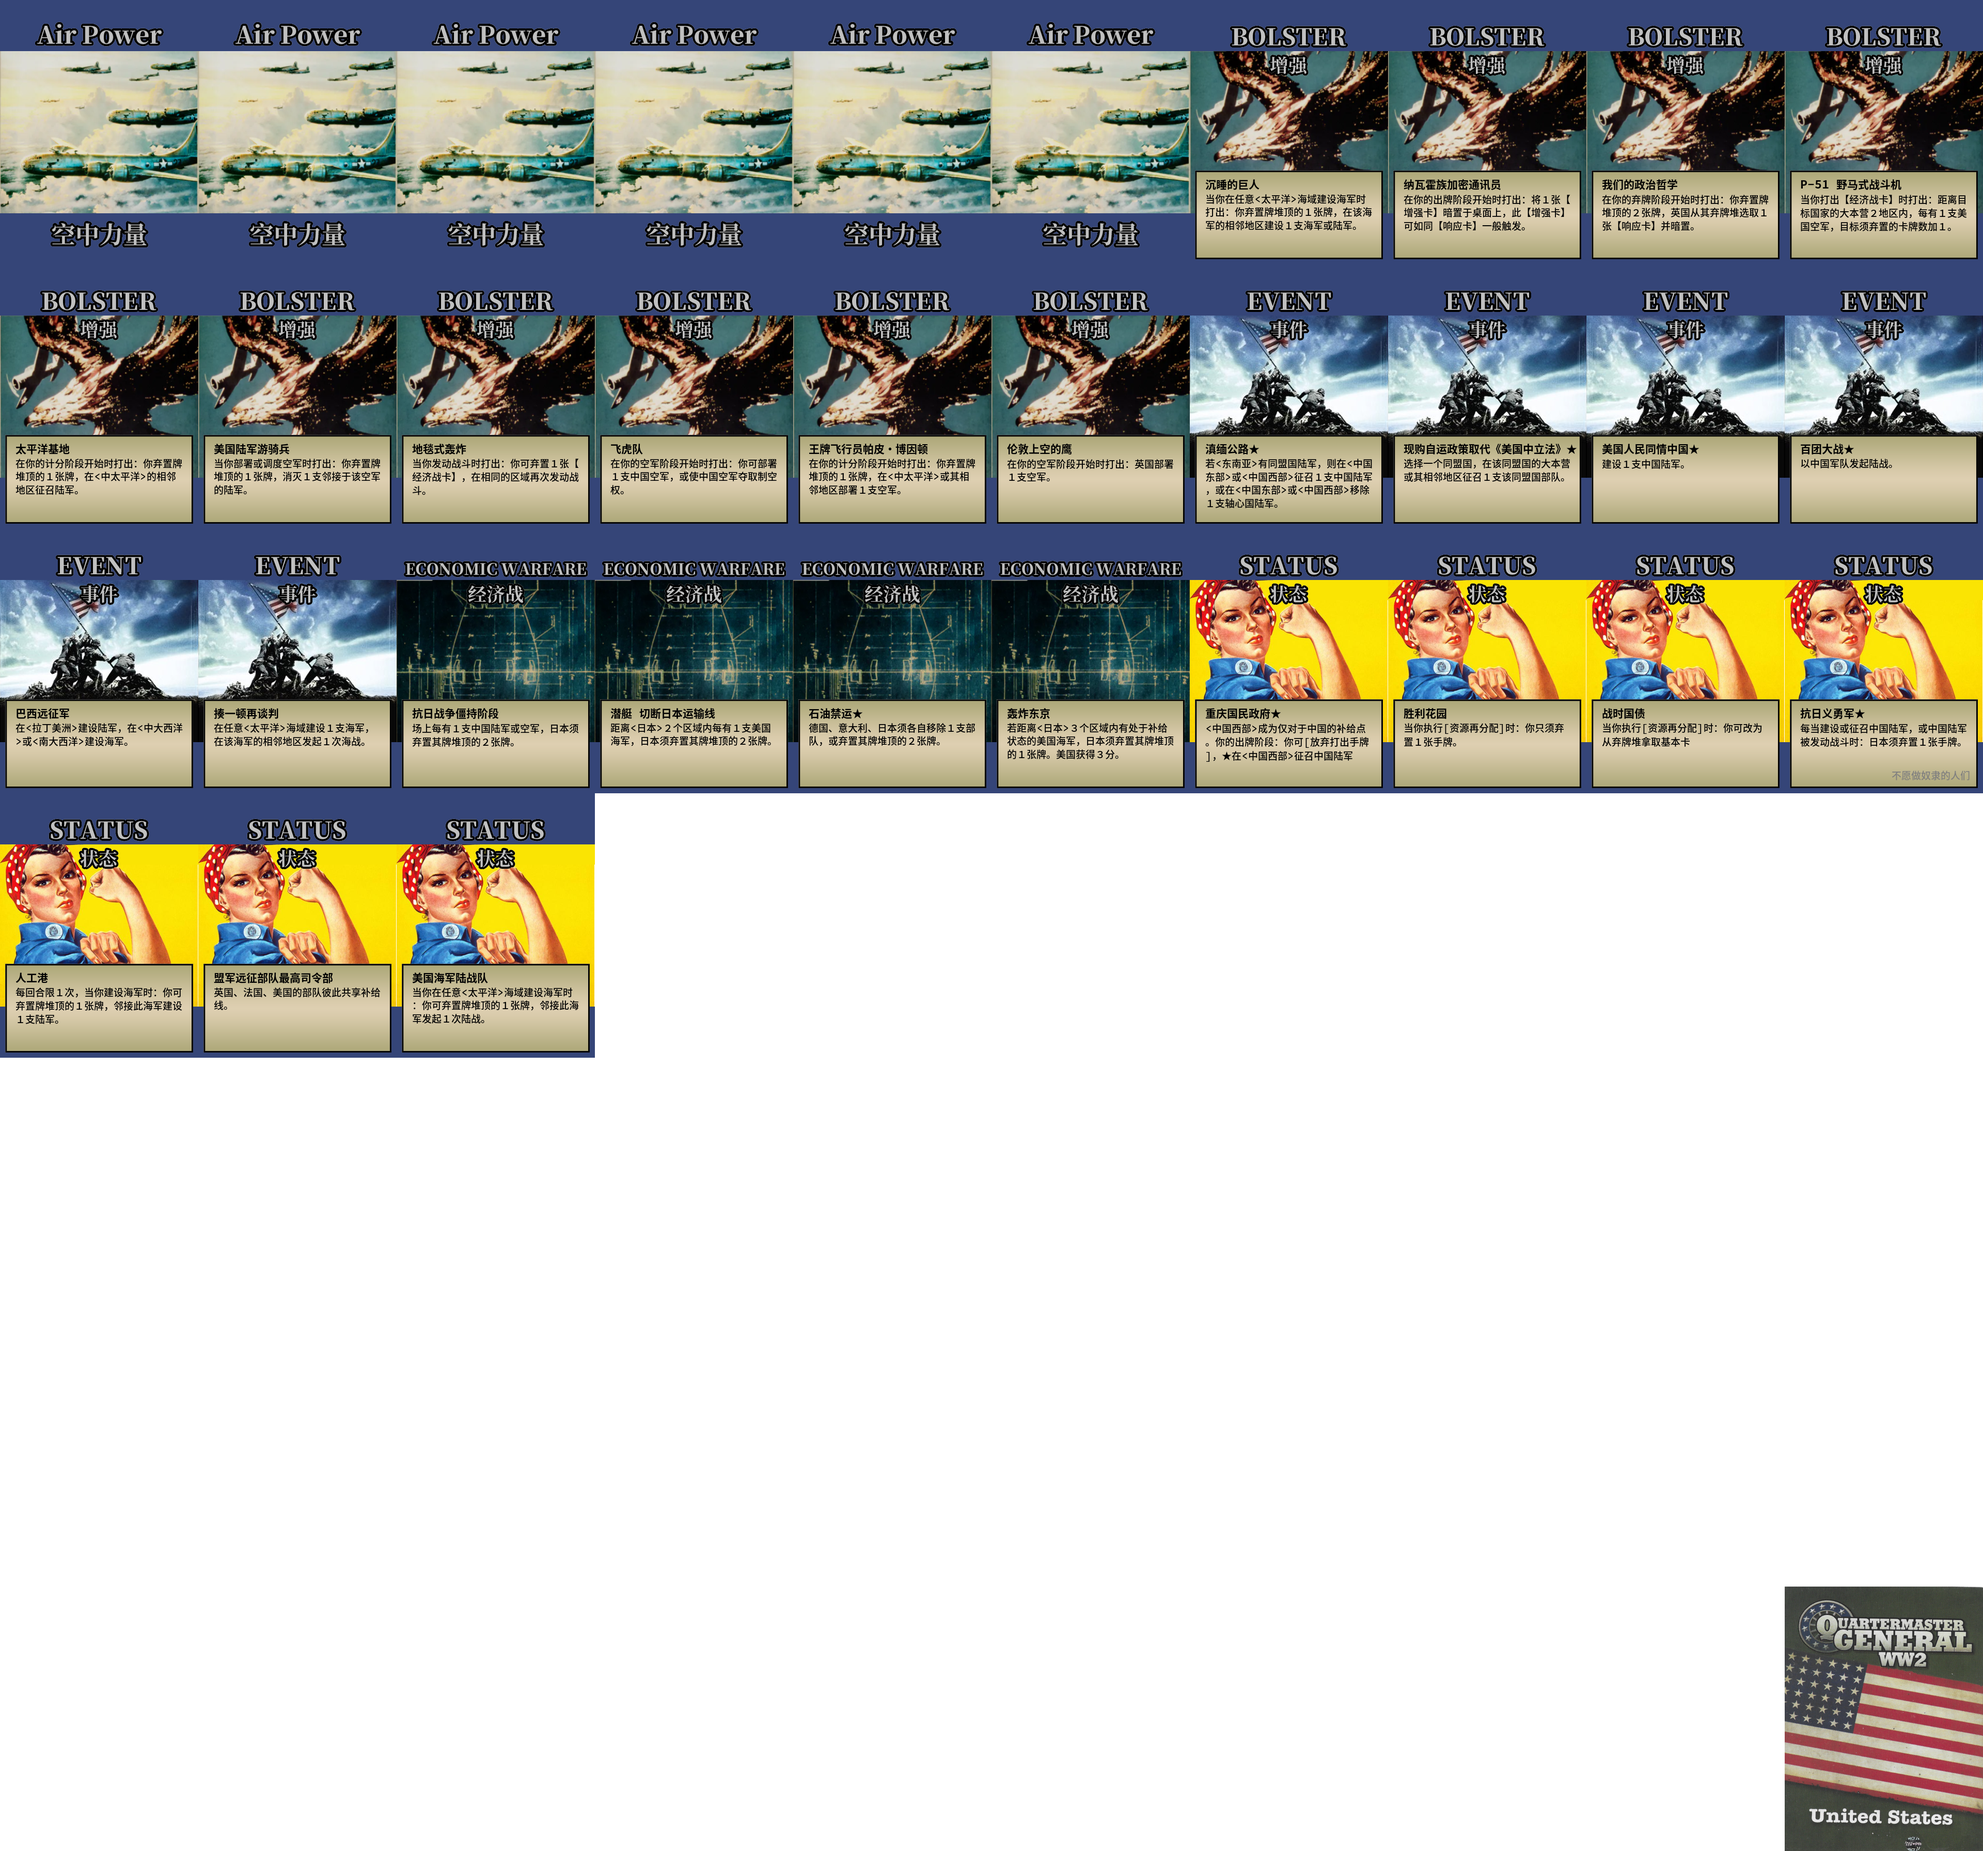
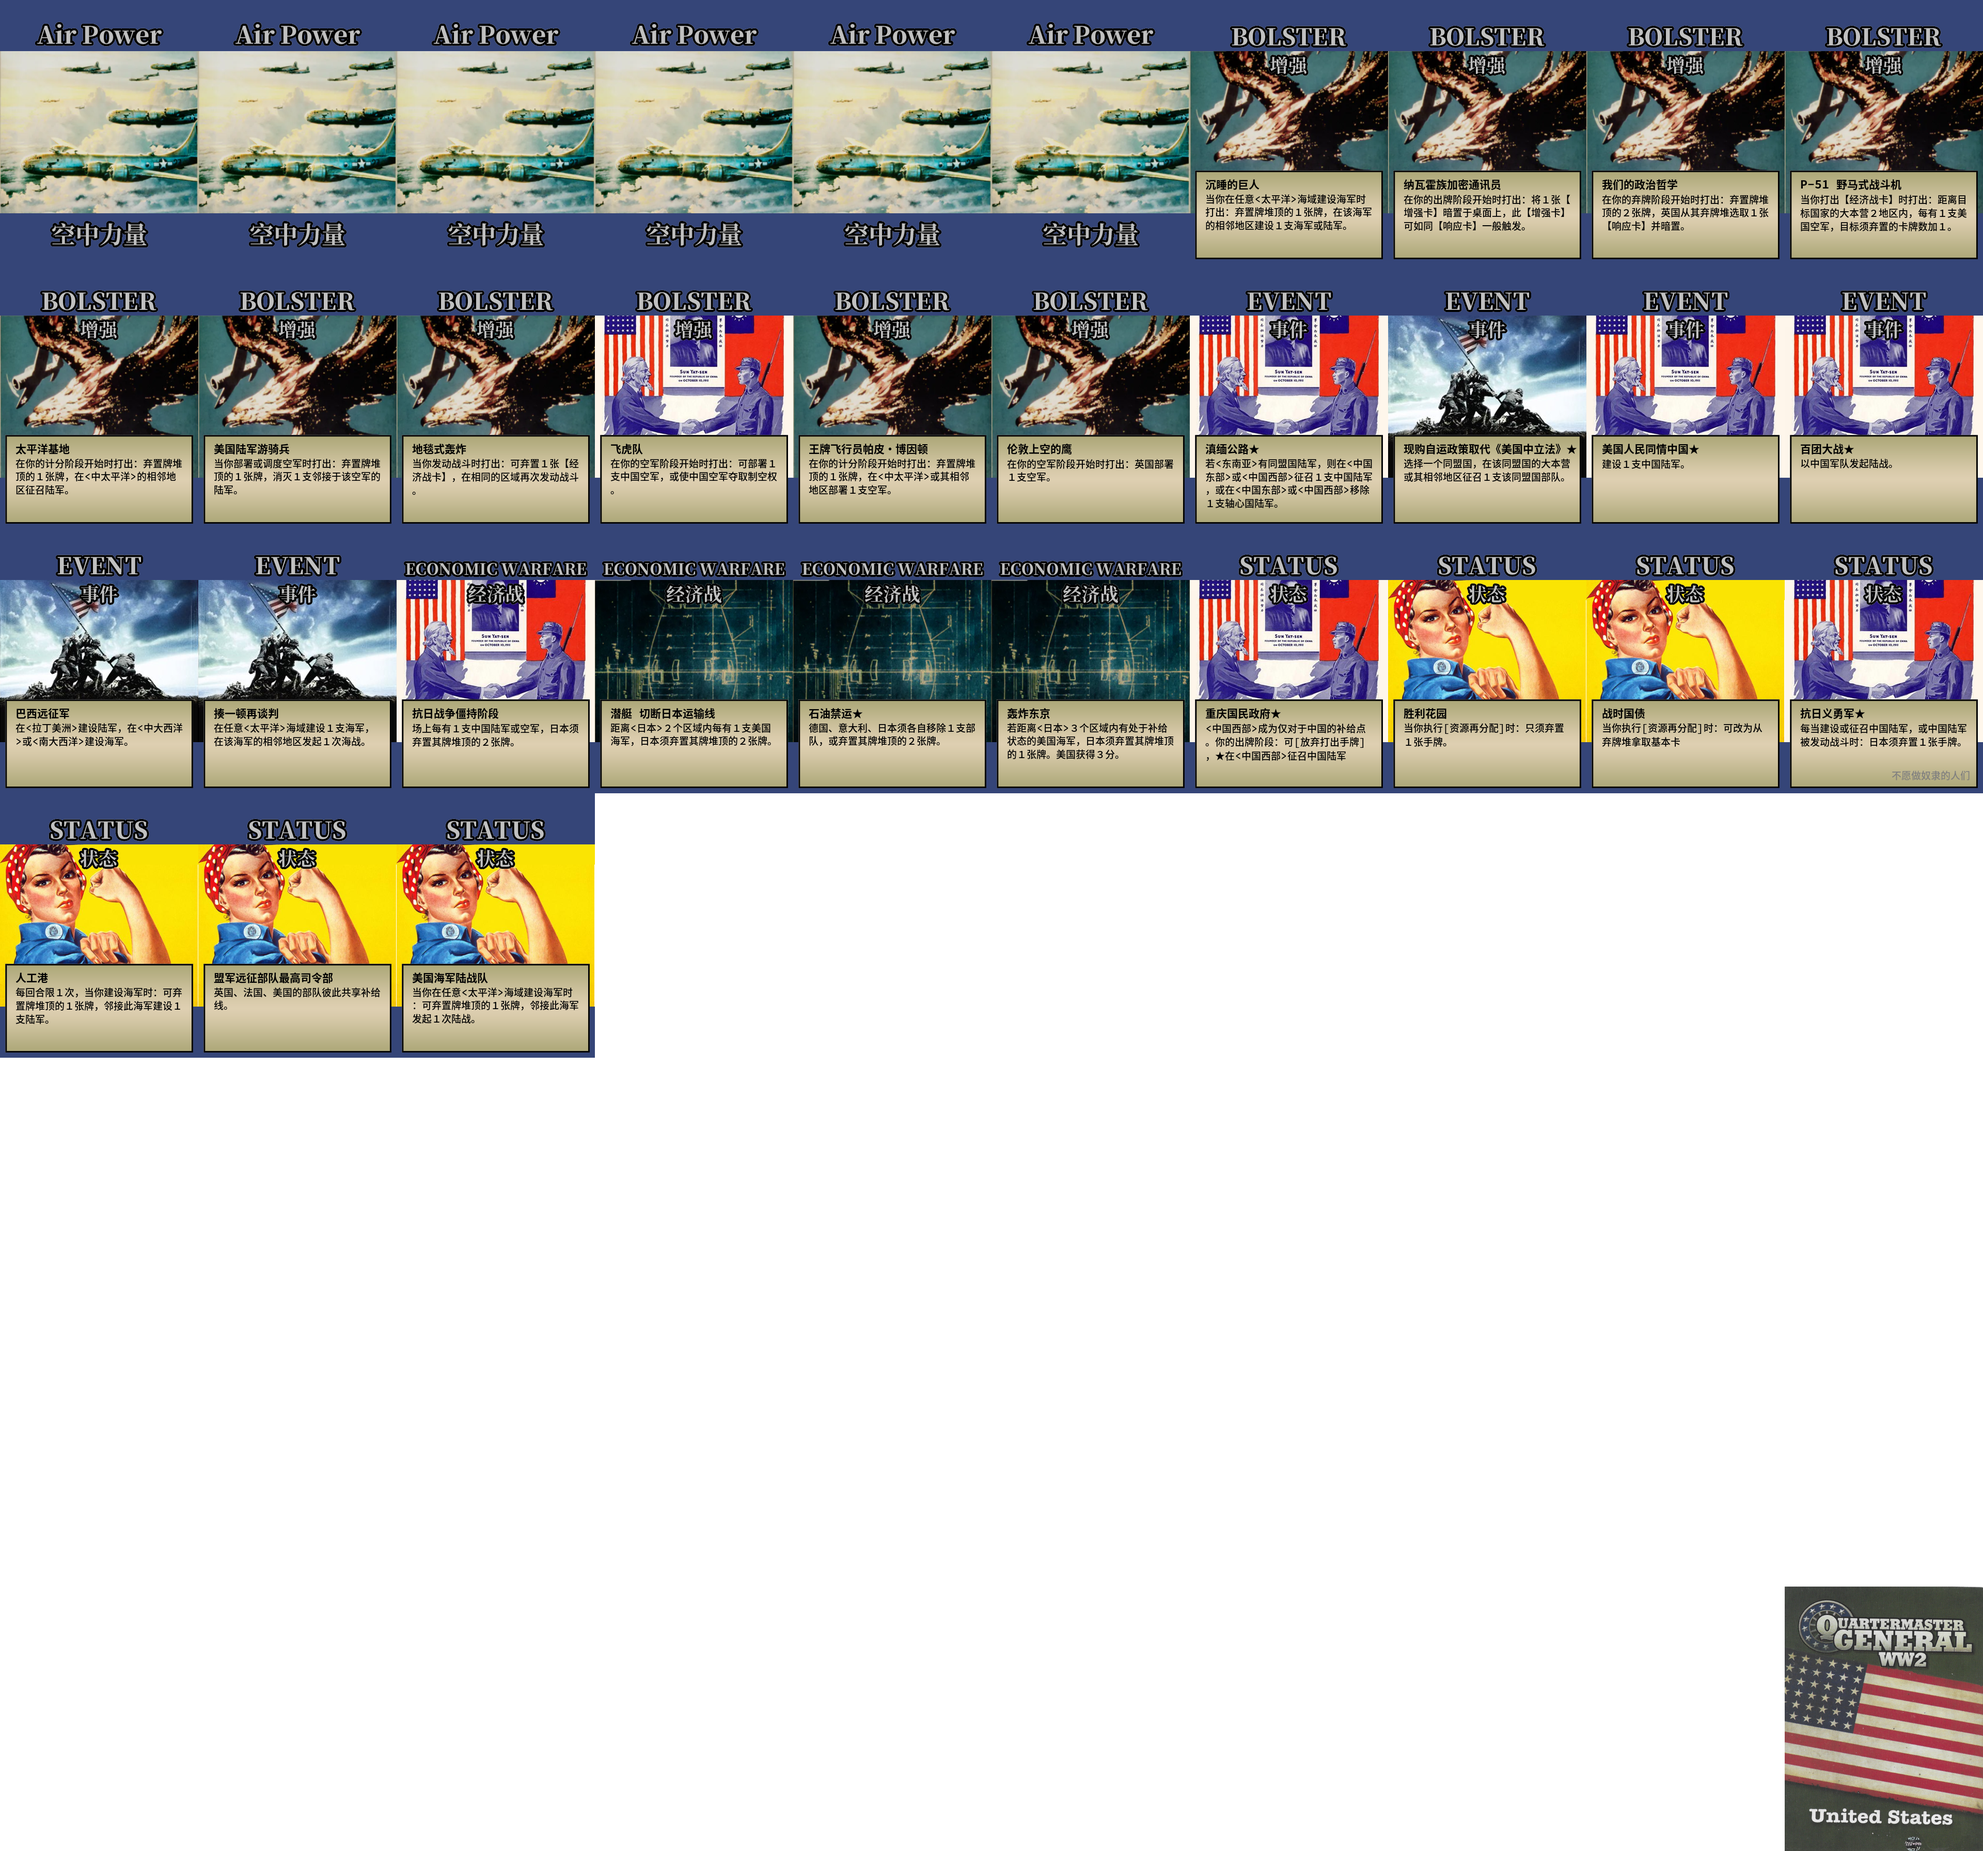
用中国、法国的专属插图生成新卡图

diff --git a/Images_HistoricalVariant/py/generate.py b/Images_HistoricalVariant/py/generate.py
@@ -3,6 +3,8 @@ from PIL import ImageFont, ImageDraw, Image
 import json
 import TextWrapper
 
+template = "../Cards/template/"
+
 
 class Card:
     title = ""
@@ -29,9 +31,13 @@ class Country:
 def draw_card(card):
     text_list = TextWrapper.fw_wrap(card.text, 51)
 
-    img_pil = Image.open("../Cards/template/" + card.type + "_" +
-                         card.country + ".png").resize((384, 512),
-                                                       Image.BILINEAR)
+    if card.cn_fr:
+        img_pil = Image.open(template + card.type + "_" + card.country + "_" +
+                             card.cn_fr + ".png").resize((384, 512),
+                                                         Image.BILINEAR)
+    else:
+        img_pil = Image.open(template + card.type + "_" + card.country +
+                             ".png").resize((384, 512), Image.BILINEAR)
     draw = ImageDraw.Draw(img_pil)
 
     # font
@@ -72,8 +78,8 @@ def splice_list(cards_list, list_name, country):
         spliced_base.paste(image, box=(width * (i % 10), height * (i // 10)))
 
     # append card back
-    back_image = Image.open("../resources/QMG_back_" + country + ".png").resize(
-        (width, height), Image.BILINEAR)
+    back_image = Image.open("../resources/QMG_back_" + country +
+                            ".png").resize((width, height), Image.BILINEAR)
     spliced_base.paste(back_image, box=(width * 9, height * 6))
 
     # save file
@@ -91,16 +97,14 @@ def generate(country):
 
         # append basic cards
         for (type, num) in country.base_basic_cards.items():
-            bc_img = Image.open("../Cards/template/" + type + "_" +
-                                country.name + ".png").resize((width, height),
-                                                              Image.BILINEAR)
-            for i in range(num):
+            bc_img = Image.open(template + type + "_" + country.name +
+                                ".png").resize((width, height), Image.BILINEAR)
+            for _ in range(num):
                 cards_base.append(bc_img)
         for (type, num) in country.ex_basic_cards.items():
-            bc_img = Image.open("../Cards/template/" + type + "_" +
-                                country.name + ".png").resize((width, height),
-                                                              Image.BILINEAR)
-            for i in range(num):
+            bc_img = Image.open(template + type + "_" + country.name +
+                                ".png").resize((width, height), Image.BILINEAR)
+            for _ in range(num):
                 cards_ex.append(bc_img)
 
         # append special cards
@@ -109,13 +113,11 @@ def generate(country):
             card = Card()
             card.__dict__ = card_dict
 
-            if card.substituted == "":
+            if not card.substituted:
                 if card.dlc == "base":
                     cards_base.append(draw_card(card))
                 elif card.dlc == "am/ah":
                     cards_ex.append(draw_card(card))
-                elif card.dlc == "base-substituted":
-                    pass
 
         splice_list(cards_base, "base", country.name)
         splice_list(cards_ex, "amah", country.name)
